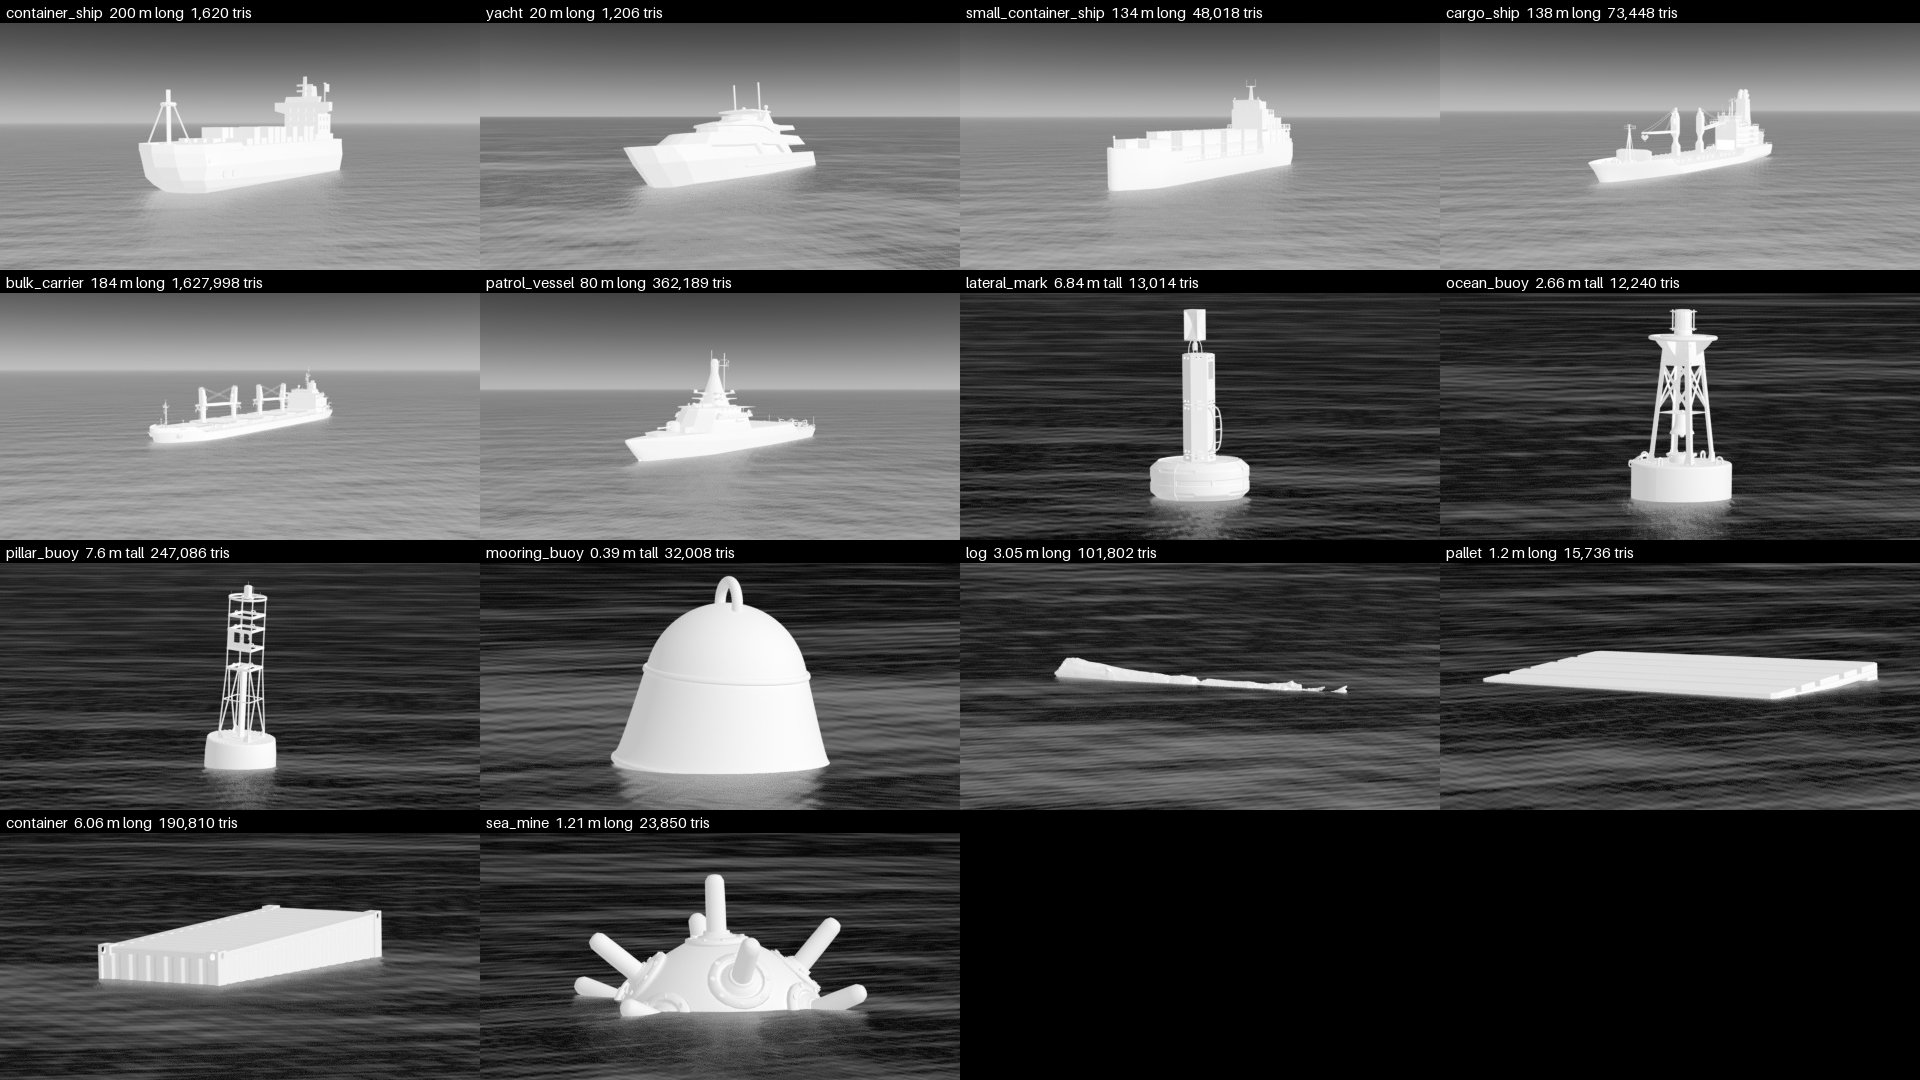
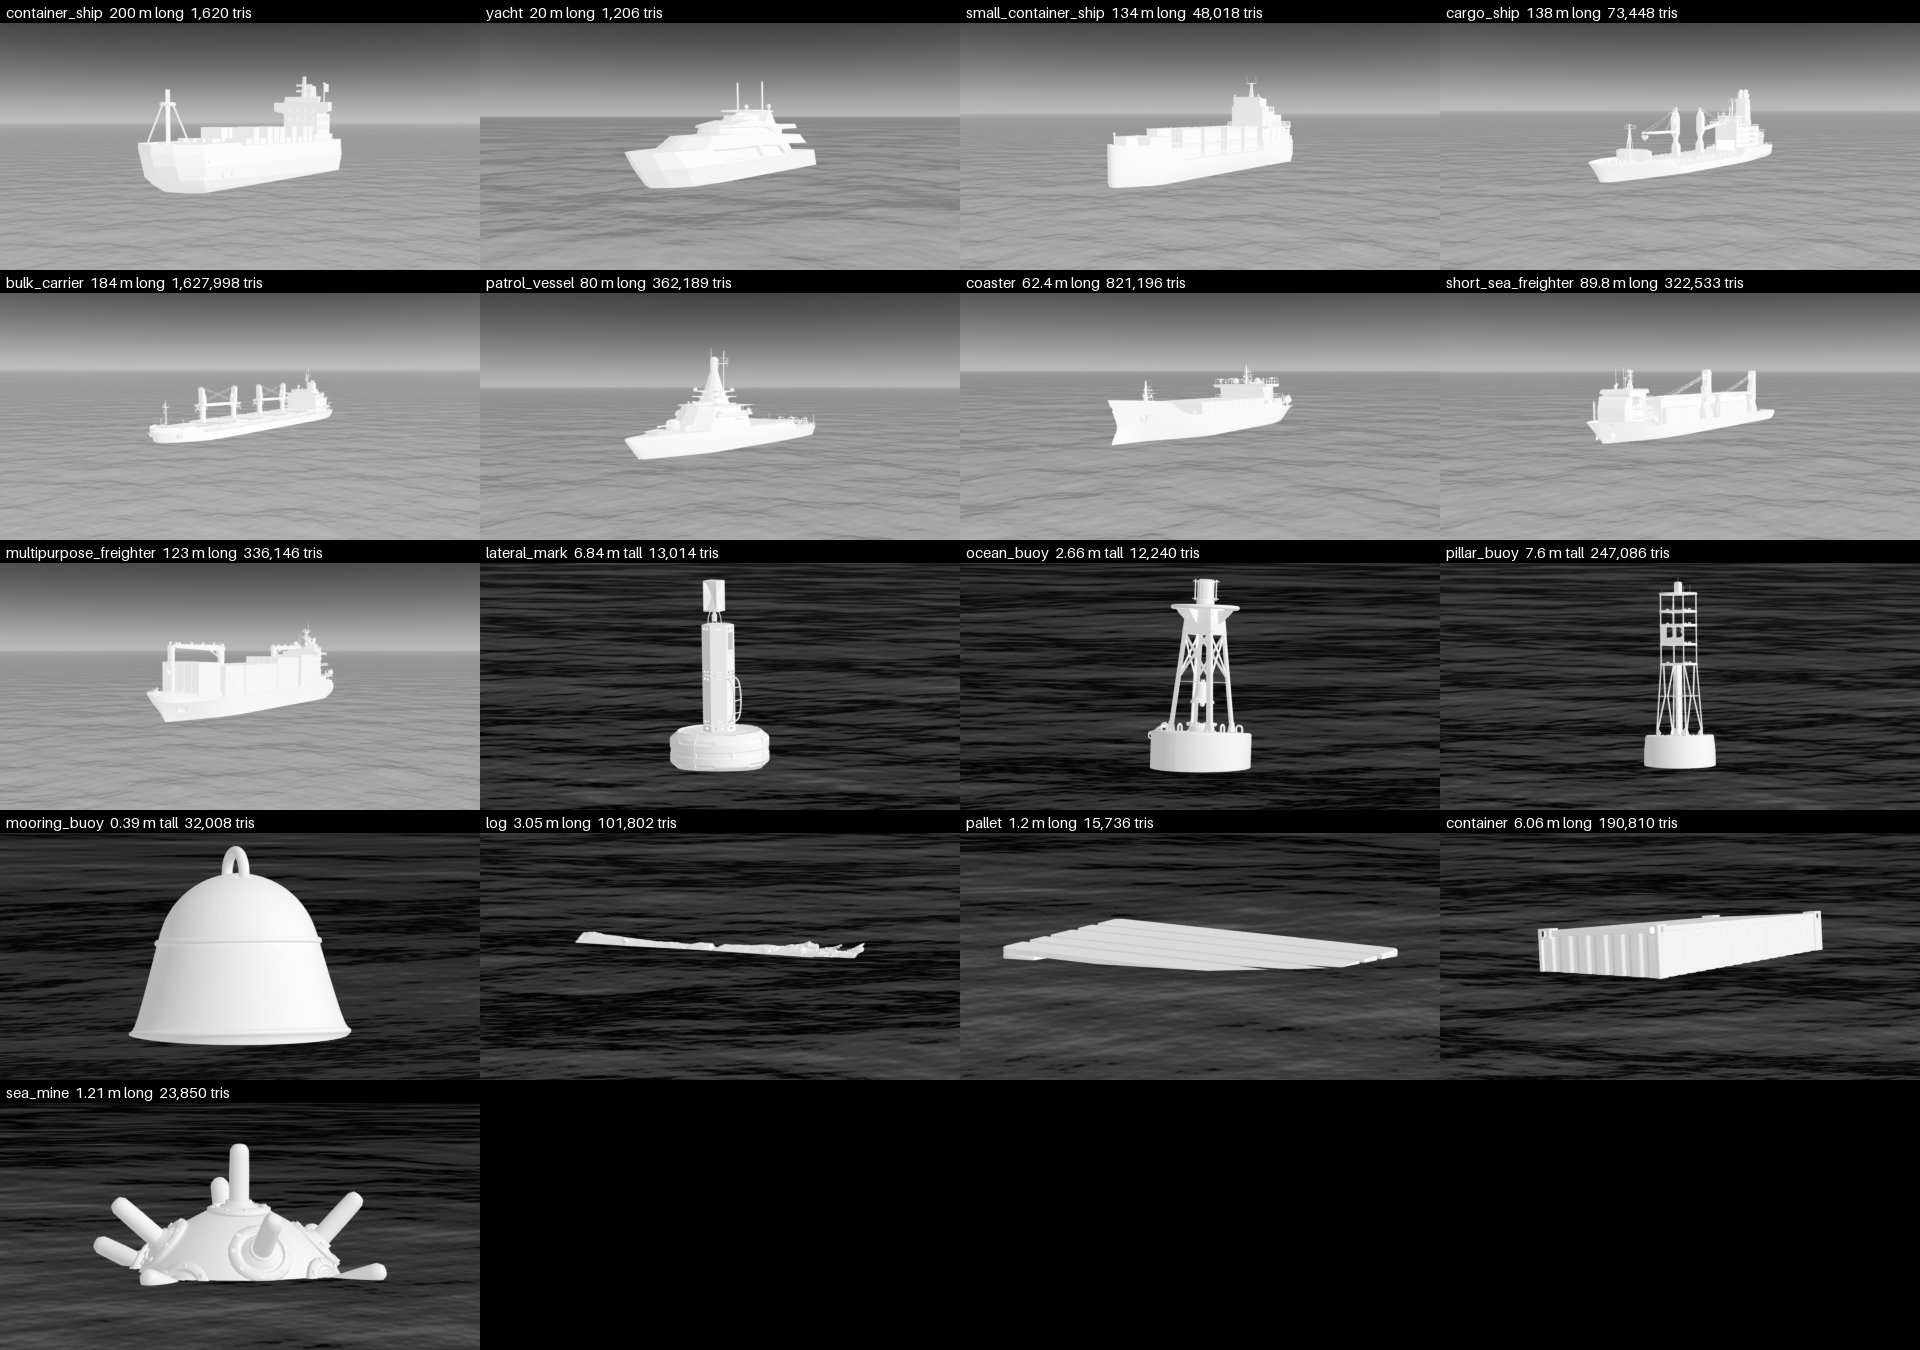
feat: a coaster and two freighters from SeaShapes, sized by their containers (#177)
* feat: a coaster and two freighters from SeaShapes, sized by their containers

Three CC BY 4.0 hulls by gogiart, rehosted unmodified in the public
SEA-AI/seashapes dataset and pinned by commit. The coaster and the
multipurpose freighter take their length from their ISO 668 20 ft
containers and their draught from where the bottom paint ends; the
short-sea freighter is sized as a Damen Combi Freighter 3850.

* fix: the freighter's draught from a Combi Freighter 8200's, not its paint

The multipurpose freighter's draught is a Damen Combi Freighter 8200's
draught-to-length ratio applied to its length. The coaster's paint-line
draught no longer claims to bound the loaded waterline, and the short-sea
freighter drops a container cross-check its comment could not show.

* docs: the asset sheets re-rendered with main's sea

---------

diff --git a/docs/assets.md b/docs/assets.md
@@ -14,19 +14,20 @@ A build downloads each mesh itself, so it needs URLs that anyone can fetch witho
 |---|---|---|
 | [Poly Haven](https://polyhaven.com/models) | CC0 | The `gltf` entry of `api.polyhaven.com/files/<id>`, its `include` the `files` |
 | [Objaverse](https://huggingface.co/datasets/allenai/objaverse) | Each model's own: take CC0 or CC-BY only | `resolve/<commit>/glbs/...`, pinned to a commit, never `main`; `object-paths.json.gz` maps a Sketchfab uid to its path |
+| [SeaShapes](https://huggingface.co/datasets/SEA-AI/seashapes) | Each model's own, in `metadata.jsonl` | `resolve/<commit>/<id>/<id>.glb`, pinned to a commit; its README says how to add a model |
 | [Icosa Gallery](https://icosa.gallery) | CC-BY; skip `CREATIVE_COMMONS_BY_ND` | In `api.icosa.gallery/v1/assets/<id>`, the `root.url` of a `GLB` or `FBX` format with no `resources` |
 
 Not usable:
 
 - A non-commercial or no-derivatives licence.
-- Sketchfab directly: its Download API needs an account and hands out links that expire.
+- Sketchfab directly: its Download API needs an account and hands out links that expire. Download the model by hand and add it to SeaShapes instead.
 
 ## Adding one
 
 1. Find it in a source above and read its licence.
 2. Download the files and run `uv run seascape assets measure <mesh>`. Fill in the `url` of each of a glTF's `files` it prints.
 3. Add the entry to [`seascape/assets.toml`](../seascape/assets.toml) with those lines, its `kind`, the `category` its labels carry (shared by assets of one type), the `url`, the `licence`, `attribution` with the author and the page, and a one-line `description` of what the camera sees.
-4. A `hull` takes `length_m` and `draught_m` from a real vessel of the class, and `bow_deg` from where the bow points as authored; check it in the sheet. A `buoy` takes `height_m` and `draught_m` from a real buoy of the type. Cite the source beside them.
+4. A `hull` takes `length_m` and `draught_m` from a real vessel of the class, and `bow_deg` from where the bow points as authored; check it in the sheet. A hull carrying a standard part, such as an ISO 668 container, can take its length from that part measured in the mesh instead. With no published draught, take `draught_m` from a real vessel of the class's draught-to-length ratio, or else from where the mesh's bottom paint ends. A `buoy` takes `height_m` and `draught_m` from a real buoy of the type. Cite the source beside them.
 5. Regenerate the sheets with `uv run seascape assets sheet scenarios/open-sea.toml docs/assets_eo.jpg` and the same with `docs/assets_ir.jpg --band ir`, and the schema with `uv run seascape schema > schema/scenario.json`. Then run `uv run pytest --render`.
 
 ## Judging detail
